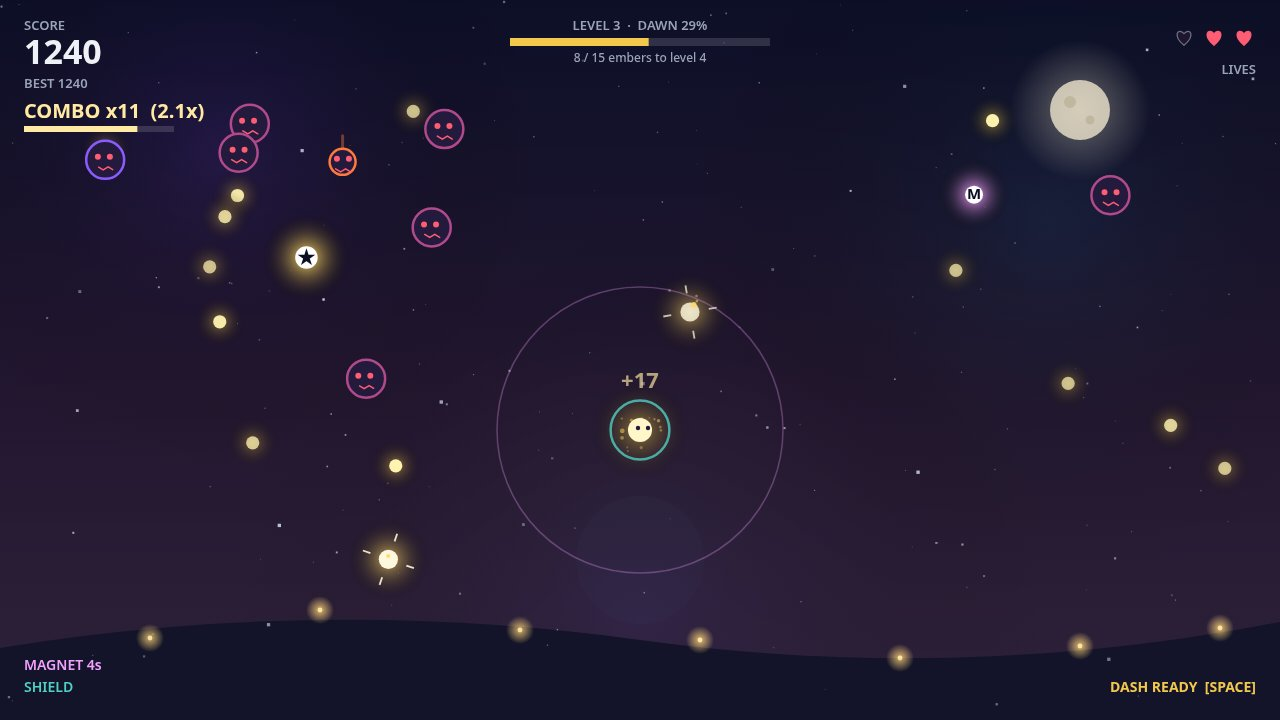
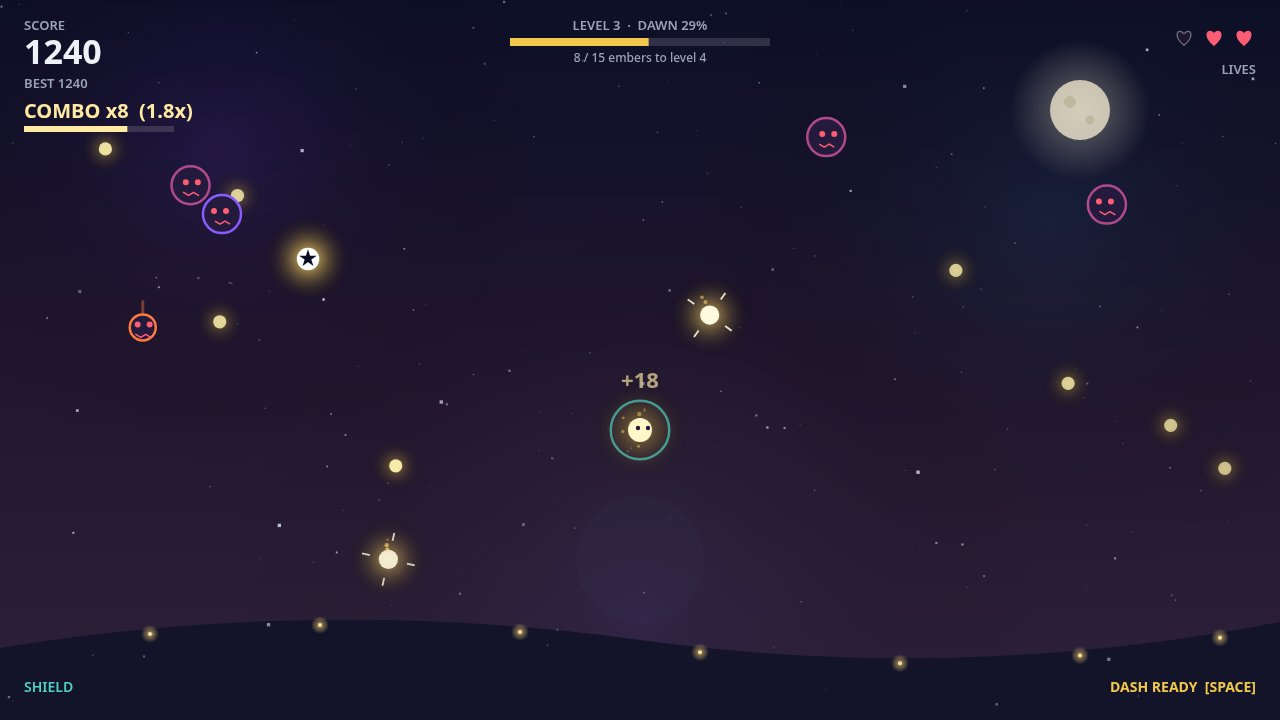
Lumen Drift round 3: lean play shot, no magnet ring, lanterns on the ridge
Round 2 ranked below round 1 (judge 699.775 vs 715.083, rank 1765 vs
921). The play screenshot was the regression: 15 embers, 8 gloom, an
active magnet, and a big empty magnet range ring across the middle of
the field. Round 3 keeps everything round 2 added (golden embers,
Starfall, Dawn's Blessing, dawn sky, moon, music, fixed SFX) and
restores round 1's readability:

- render.js: the magnet range ring is gone; the HUD MAGNET timer and
  the embers visibly streaming to the wisp already say the effect is on.
- world.js stagePlay: staged lean again — 9 embers + 1 golden, 5 gloom
  (chaser + dart + 3), one Starfall power-up, shield on, magnet off,
  combo x8. The live game is untouched.
- sky.js: lantern lights now sit on the hill ridge (computed from the
  ridge curves, 5 px sunk in) and glow smaller; round 2's fixed spots
  floated up to 10 px above the ridge and read as embers on the ground.

Local checks: world unit test 22/22, Playwright play-test all passed,
0 console errors, 0 failed requests, staged scene identical across
two runs (10 embers, 2 golden, 5 gloom, 1 Starfall, magnet off).

diff --git a/game/src/world.js b/game/src/world.js
@@ -7,6 +7,11 @@
 // reaching level 4. The world also reports what happened (drainEvents) so the
 // main loop can play the matching sound, and it freezes the score once the
 // dawn has broken, so a won run's numbers never drift.
+//
+// Round 3: the play screenshot is staged lean again (see stagePlay) — round 2
+// staged it crowded and the judge ranked it below round 1. Nothing about
+// the live game changes here: golden embers, Starfall, the blessing, the
+// music and the sounds all stay.
 
 import { FIELD, PLAYER, EMBER, GLOOM, POWERUP, LEVEL, LIVES, POOL } from './config.js';
 
@@ -539,15 +544,20 @@ export function makeWorld(random, particles) {
     particles.burst(640, 590, '#ffd76a', 12, 130, 0.8, 3);
   }
 
-  /** Fill the field with a busy mid-game scene (the play screenshot, seeded). */
+  /** Fill the field with a clear mid-game scene (the play screenshot, seeded).
+   * Round 3: staged like round 1 (9 embers, 5 gloom) — round 2 staged 15
+   * embers, 8 gloom and an active magnet, and the play shot came out crowded,
+   * with a big empty magnet ring across its middle. One golden ember and one
+   * Starfall show round 2's depth without the clutter; the wisp keeps its
+   * shield and the magnet stays off, so the shot reads at a glance. */
   function stagePlay(seed) {
     reset(1240);
     const rng = random;
     void seed;
     state.score = 1240;
-    state.combo = 11;
-    state.comboTimer = 2.6;
-    state.maxCombo = 12;
+    state.combo = 8;
+    state.comboTimer = 2.4;
+    state.maxCombo = 10;
     state.level = 3;
     state.embersInLevel = 8;
     state.embersTotal = 38;
@@ -556,8 +566,7 @@ export function makeWorld(random, particles) {
     wisp.x = 640;
     wisp.y = 430;
     wisp.shield = true;
-    wisp.magnet = 4;
-    for (let i = 0; i < 14; i++) {
+    for (let i = 0; i < 9; i++) {
       const e = spawnEmber();
       if (e) {
         e.y = rng.range(60, 560);
@@ -572,7 +581,7 @@ export function makeWorld(random, particles) {
     }
     const gold = spawnEmber(700, 300, true);
     if (gold) gold.vy = EMBER.goldenFallSpeed;
-    for (let i = 0; i < 8; i++) {
+    for (let i = 0; i < 5; i++) {
       const g = spawnGloom(i === 1 ? 'chase' : i === 2 ? 'dart' : 'gloom');
       if (g) {
         g.y = rng.range(40, 420);
@@ -583,12 +592,11 @@ export function makeWorld(random, particles) {
         }
       }
     }
-    const p1 = spawnPowerup(980, 180, 'magnet');
-    if (p1) p1.vy = POWERUP.fallSpeed;
-    const p2 = spawnPowerup(300, 240, 'starfall');
-    if (p2) p2.vy = POWERUP.fallSpeed;
+    const p = spawnPowerup(300, 240, 'starfall');
+    if (p) p.vy = POWERUP.fallSpeed;
     particles.burst(640, 430, '#ffd76a', 14, 140, 0.7, 3);
-    particles.floatText(640, 396, '+17', '#ffe9a3', 22);
+    // Combo x8 pays 1.8x, so a plain ember just scored +18.
+    particles.floatText(640, 396, '+18', '#ffe9a3', 22);
   }
 
   /** Fill the field with a finished run (the game-over screenshot, seeded). */

diff --git a/game/src/sky.js b/game/src/sky.js
@@ -13,10 +13,22 @@ const STAR_LAYERS = [
   { count: 24, size: 2.6, speed: 20, alpha: 1 },
 ];
 
+// The hill ridge, the same two quadratic curves paintHills draws, so the
+// lantern lights can sit on it instead of floating above it: round 2's fixed
+// spots hovered up to 10 px above the ridge and read as embers lying on the
+// ground in the play shot. Round 3 puts each lantern 5 px below the ridge
+// line, half-sunk into the hill, and shrinks its glow.
+function hillY(x) {
+  if (x <= 640) {
+    const t = x / 640;
+    return (1 - t) * (1 - t) * 648 + 2 * (1 - t) * t * 596 + t * t * 640;
+  }
+  const t = (x - 640) / 640;
+  return (1 - t) * (1 - t) * 640 + 2 * (1 - t) * t * 684 + t * t * 622;
+}
+
 // Warm lantern lights dotted along the hill ridge.
-const LANTERNS = [
-  [150, 638], [320, 610], [520, 630], [700, 640], [900, 658], [1080, 646], [1220, 628],
-];
+const LANTERNS = [150, 320, 520, 700, 900, 1080, 1220].map((x) => [x, hillY(x) + 5]);
 
 function paintHills(s, fill) {
   s.fillStyle = fill;
@@ -74,18 +86,18 @@ export function makeSky() {
     }
     s.globalAlpha = 1;
     paintHills(s, '#0d1126');
-    // Lantern lights on the ridge.
+    // Lantern lights on the ridge: small, dim, half-sunk into the hill.
     for (const [x, y] of LANTERNS) {
-      const g = s.createRadialGradient(x, y, 0, x, y, 14);
-      g.addColorStop(0, 'rgba(255, 214, 120, 0.85)');
+      const g = s.createRadialGradient(x, y, 0, x, y, 9);
+      g.addColorStop(0, 'rgba(255, 214, 120, 0.7)');
       g.addColorStop(1, 'rgba(255, 214, 120, 0)');
       s.fillStyle = g;
       s.beginPath();
-      s.arc(x, y, 14, 0, Math.PI * 2);
+      s.arc(x, y, 9, 0, Math.PI * 2);
       s.fill();
       s.fillStyle = '#ffe9a3';
       s.beginPath();
-      s.arc(x, y, 2.4, 0, Math.PI * 2);
+      s.arc(x, y, 2, 0, Math.PI * 2);
       s.fill();
     }
   }

diff --git a/game/src/render.js b/game/src/render.js
@@ -2,7 +2,7 @@
 // title / pause / game-over / victory screens. Nothing here changes the world;
 // it only reads it. The sky itself (night, moon, dawn) lives in sky.js.
 
-import { FIELD, PALETTE, FONT, EMBER, POWERUP, LEVEL } from './config.js';
+import { FIELD, PALETTE, FONT, EMBER, LEVEL } from './config.js';
 import { makeSky } from './sky.js';
 
 export function makeRenderer(canvas) {
@@ -72,15 +72,11 @@ export function makeRenderer(canvas) {
       ctx.stroke();
       ctx.globalAlpha = 1;
     }
-    if (wisp.magnet > 0) {
-      ctx.strokeStyle = PALETTE.magnet;
-      ctx.globalAlpha = 0.3;
-      ctx.lineWidth = 1.5;
-      ctx.beginPath();
-      ctx.arc(wisp.x, wisp.y, POWERUP.magnetRadius * 0.55, 0, Math.PI * 2);
-      ctx.stroke();
-      ctx.globalAlpha = 1;
-    }
+    // No range ring for the magnet: round 2 drew one (radius 143) whenever
+    // the magnet was on, and in the play screenshot it read as a big empty
+    // circle across the middle of the field. The HUD's MAGNET timer already
+    // says the effect is on, and the embers visibly streaming toward the
+    // wisp show the pull — the ring added nothing but clutter.
     if (blink) ctx.globalAlpha = 1;
   }
 
